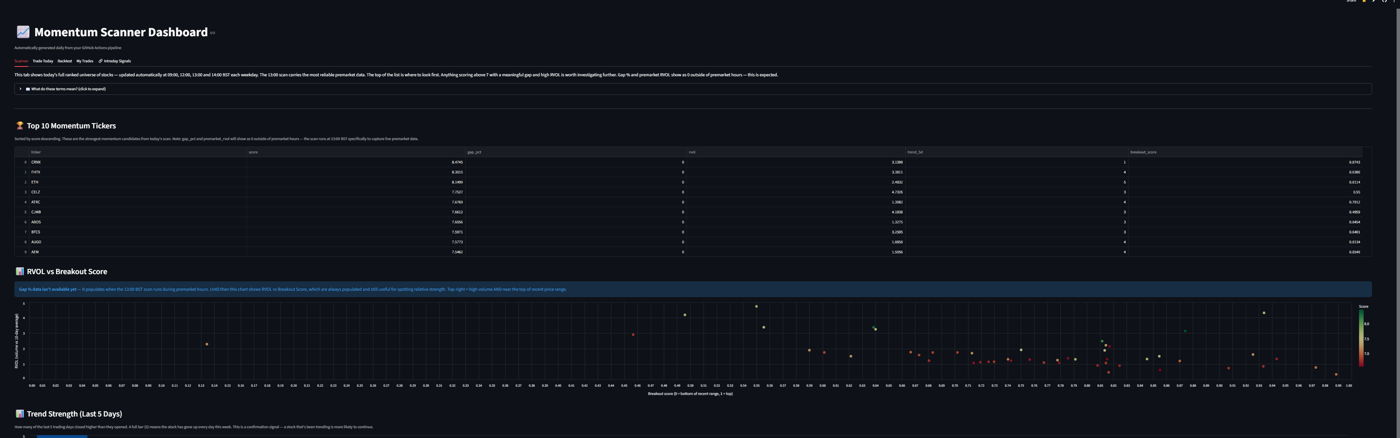
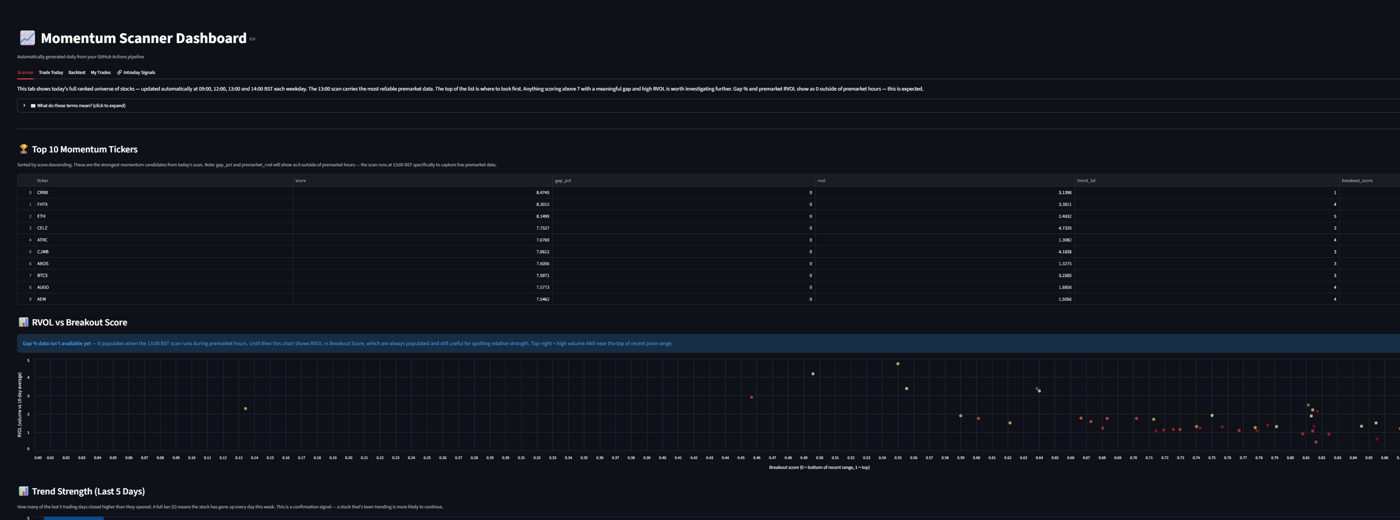
Fix speaking photo sizing, articles featured image, dashboard crop, remove employer fact from homepage

diff --git a/assets/site.css b/assets/site.css
@@ -183,7 +183,7 @@ h2 { font-family: var(--serif); font-size: clamp(2rem, 3.5vw, 3rem); font-weight
 .project-content ul { padding-left: 1.25rem; margin-bottom: 0.5rem; }
 .project-content li { margin-bottom: 0.4rem; }
 .project-links { display: flex; gap: 0.75rem; margin-top: 2rem; flex-wrap: wrap; }
-.project-visual-shot { width: 100%; border: 1px solid rgba(245, 242, 235, 0.15); margin: 1.5rem 0; display: block; }
+.project-visual-shot { width: 100%; border: 1px solid rgba(245, 242, 235, 0.15); margin: 1.5rem auto; display: block; }
 
 /* ── ARCHITECTURE ── */
 .arch-grid { display: grid; grid-template-columns: repeat(4, 1fr); gap: 0; border: 1px solid var(--rule); }
@@ -197,8 +197,9 @@ h2 { font-family: var(--serif); font-size: clamp(2rem, 3.5vw, 3rem); font-weight
 /* ── AGENTS / CARD GRIDS ── */
 .agents-intro { font-size: 0.98rem; color: #2a2a2a; max-width: 62ch; margin-bottom: 3rem; }
 .agents-grid { display: grid; grid-template-columns: repeat(3, 1fr); gap: 2px; background: var(--rule); }
-.agents-grid-2 { grid-template-columns: repeat(2, 1fr); }
-.speaking-photo { width: 100%; margin-top: 2px; border: 1px solid var(--rule); display: block; filter: grayscale(10%); }
+.agents-grid-2 { grid-template-columns: 1fr 1fr 0.85fr; }
+.speaking-photo-cell { padding: 0; overflow: hidden; }
+.speaking-photo { width: 100%; height: 100%; object-fit: cover; display: block; filter: grayscale(10%); }
 .agent-card { background: var(--paper); padding: 2.25rem 2rem; display: flex; flex-direction: column; }
 .agent-tag { font-family: var(--mono); font-size: 0.68rem; letter-spacing: 0.1em; text-transform: uppercase; color: var(--accent); margin-bottom: 0.9rem; }
 .agent-card h4 { font-size: 1.05rem; font-weight: 500; margin-bottom: 0.6rem; color: var(--ink); }
@@ -241,7 +242,8 @@ blockquote em { font-style: italic; color: var(--accent); }
 .filter-pill:hover { border-color: var(--ink); color: var(--ink); }
 .filter-pill.active { background: var(--ink); border-color: var(--ink); color: var(--paper); }
 
-.featured-article { display: block; text-decoration: none; color: var(--ink); border: 1px solid var(--ink); margin-bottom: 3rem; }
+.featured-article { display: block; text-decoration: none; color: var(--ink); border: 1px solid var(--ink); margin-bottom: 3rem; max-width: 780px; }
+.featured-article-img { width: 100%; aspect-ratio: 16/9; object-fit: cover; background: var(--ink); display: block; }
 .featured-article-tag { font-family: var(--mono); font-size: 0.68rem; letter-spacing: 0.12em; text-transform: uppercase; color: var(--paper); background: var(--accent); display: inline-block; padding: 0.35rem 0.8rem; }
 .featured-article-body { padding: 2rem; }
 .featured-article-body h3 { font-family: var(--serif); font-size: 2rem; font-weight: 400; margin: 1rem 0 0.75rem; }

diff --git a/articles/index.html b/articles/index.html
@@ -59,7 +59,7 @@
 <section>
 
   <a href="/articles/colleague-dared-me-to-build-something/" class="featured-article">
-    <img src="/assets/articles/colleague-dared-me.png" alt="My colleague joked and dared me to build something" style="width:100%; aspect-ratio:16/9; object-fit:cover; background:var(--ink); display:block;">
+    <img src="/assets/articles/colleague-dared-me.png" alt="My colleague joked and dared me to build something" class="featured-article-img">
     <div class="featured-article-body">
       <span class="featured-article-tag">Latest</span>
       <h3>My colleague joked and dared me to build something</h3>

diff --git a/speaking/index.html b/speaking/index.html
@@ -83,9 +83,10 @@
       <h4>Show, don't just tell</h4>
       <p>I'd rather show a real agent working live than talk through a slide about what agents can theoretically do. Happy to bring the build with me.</p>
     </div>
+    <div class="speaking-photo-cell">
+      <img src="/assets/speaking-photo.jpg" alt="Gary Stow presenting to a room at a Microsoft session" class="speaking-photo">
+    </div>
   </div>
-
-  <img src="/assets/speaking-photo.jpg" alt="Gary Stow presenting to a room at a Microsoft session" class="speaking-photo">
 </section>
 
 <!-- TRAINING -->

diff --git a/index.html b/index.html
@@ -122,8 +122,8 @@
         <div class="fact-value">United Kingdom</div>
       </div>
       <div class="fact">
-        <div class="fact-label">Day job</div>
-        <div class="fact-value">Senior Client Solutions Manager, Financial Services, Microsoft Advertising</div>
+        <div class="fact-label">Background</div>
+        <div class="fact-value">Over a decade in performance marketing agency and client side</div>
       </div>
     </div>
   </div>
